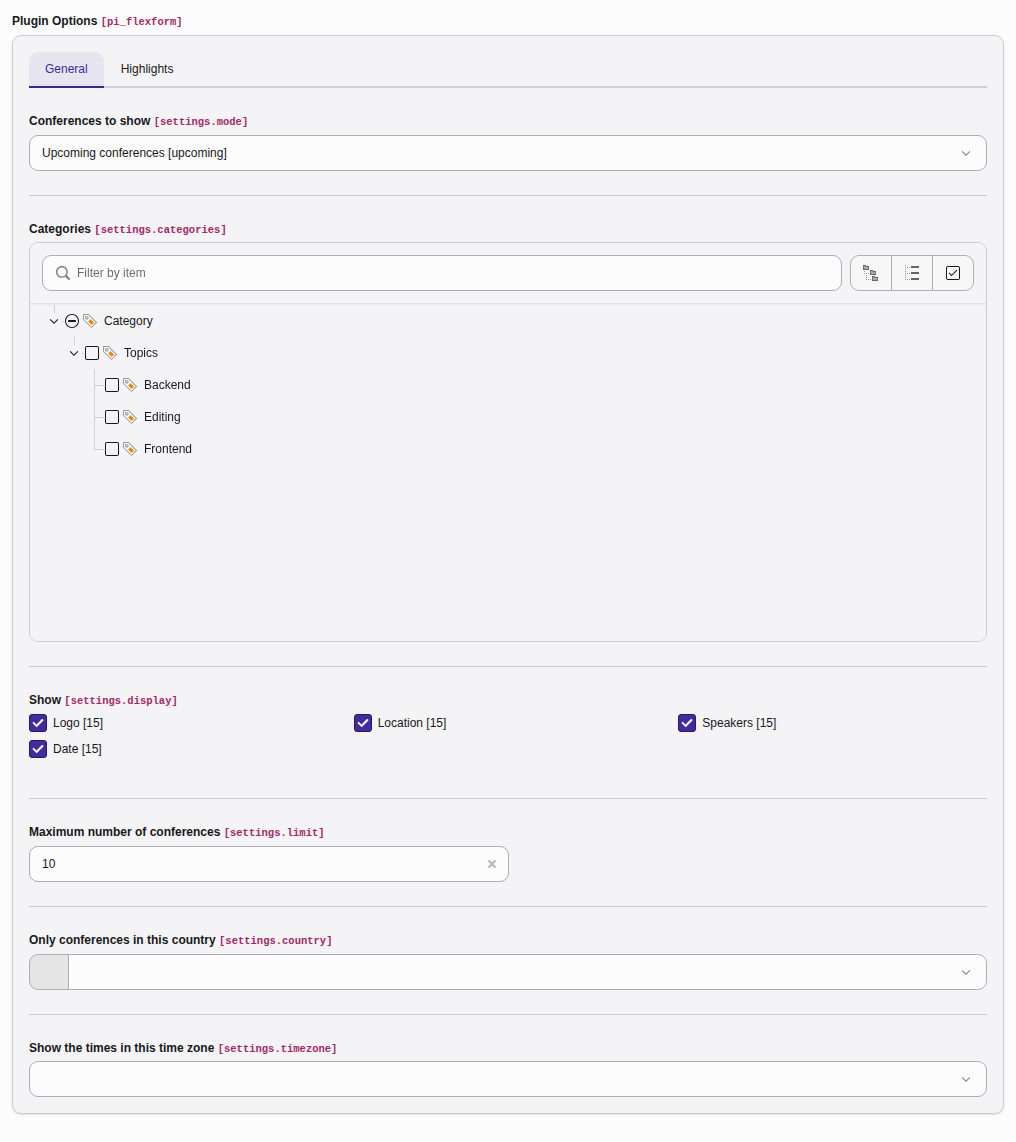
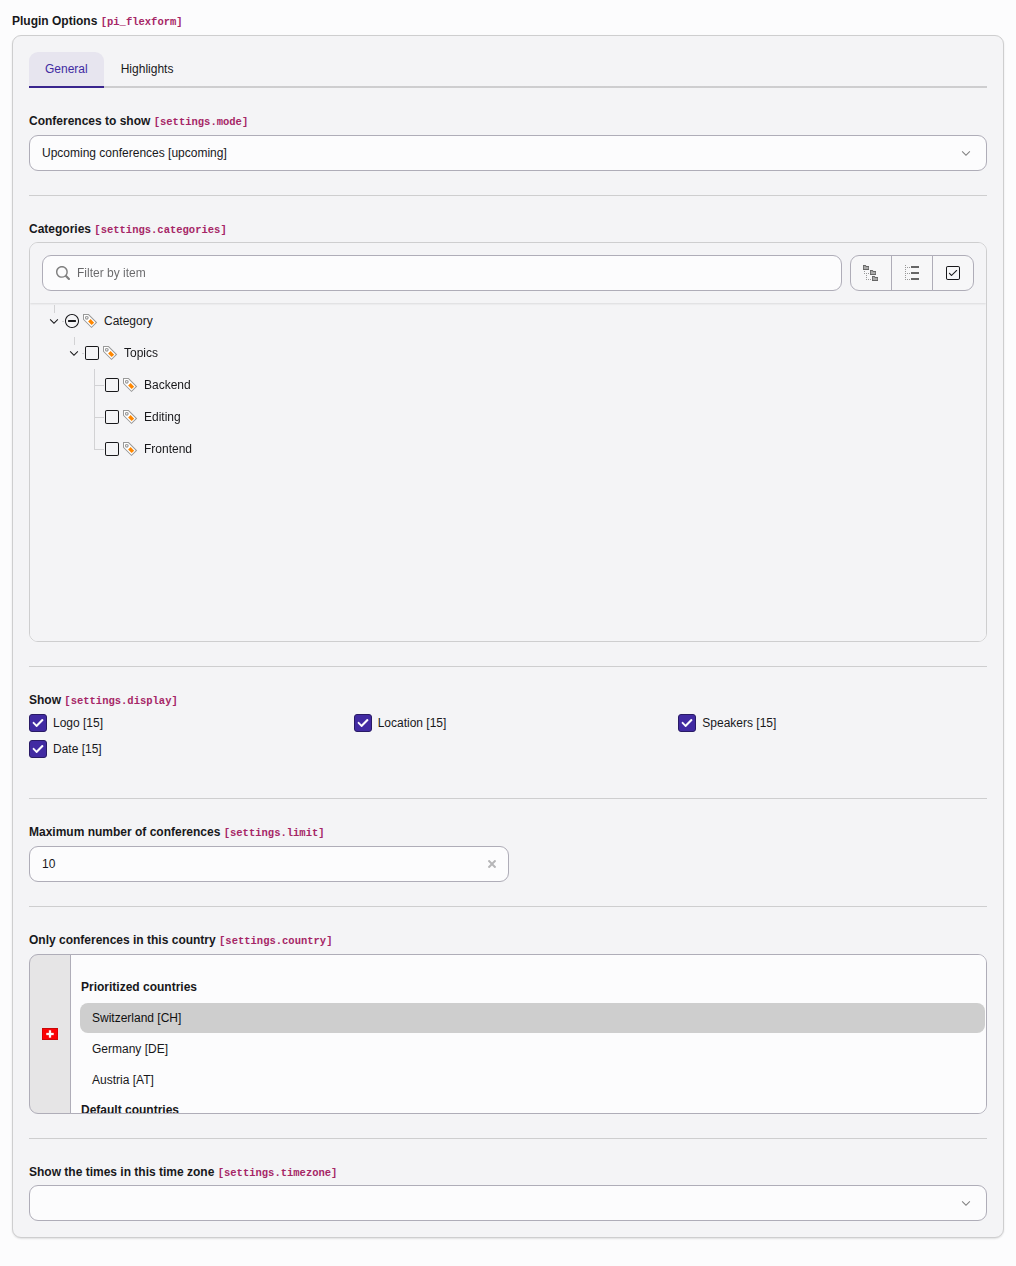
[TASK] Replace the remaining manual screenshots with the conference extension
The manual screenshots of the password generator, the country size, the
default language differences, and the custom form wizard showed records
of the styleguide or of tt_content. Nobody can take them again for a new
TYPO3 version. The conference extension now provides these screenshots:

- A new field wizard above the conference form shows how many records
  refer to the conference. It replaces the wizard snippets of the ctrl
  examples.
- The FlexForm of the plugin shows the country field as a box with a
  size of 4.
- After the translation, a track is added to the default conference, so
  that the translation shows the difference.
- The password screenshots show a generated password and the field after
  saving.

Releases: main, 14.3
Assisted-by: Claude Opus 5.5 <noreply@anthropic.com>

diff --git a/Documentation/CodeSnippets/my_extension/Classes/Form/FieldWizard/ReferencesToThisRecordWizard.php b/Documentation/CodeSnippets/my_extension/Classes/Form/FieldWizard/ReferencesToThisRecordWizard.php
@@ -1,0 +1,40 @@
+<?php
+
+declare(strict_types=1);
+
+namespace MyVendor\MyExtension\Form\FieldWizard;
+
+use TYPO3\CMS\Backend\Form\AbstractNode;
+use TYPO3\CMS\Core\Database\ReferenceIndex;
+use TYPO3\CMS\Core\Localization\LanguageService;
+
+/**
+ * Shows above the form how many records refer to the edited record
+ */
+final class ReferencesToThisRecordWizard extends AbstractNode
+{
+  public function __construct(
+    private readonly ReferenceIndex $referenceIndex,
+  ) {}
+
+  public function render(): array
+  {
+    $result = $this->initializeResultArray();
+    $uid = (int)($this->data['databaseRow']['uid'] ?? 0);
+    if ($uid === 0) {
+      // A new record has no references yet
+      return $result;
+    }
+    $count = $this->referenceIndex->getNumberOfReferencedRecords($this->data['tableName'], $uid);
+    $result['html'] = '<p class="text-body-secondary">' . htmlspecialchars(sprintf(
+      $this->getLanguageService()->sL('my_extension.db:references'),
+      $count,
+    )) . '</p>';
+    return $result;
+  }
+
+  private function getLanguageService(): LanguageService
+  {
+    return $GLOBALS['LANG'];
+  }
+}

diff --git a/Build/Screenshots/create-records.php b/Build/Screenshots/create-records.php
@@ -78,7 +78,10 @@ $data['tt_content'] = [
     'NEWplugin' => [
         'pid' => 1, 'CType' => 'myextension_conferencelist', 'header' => 'Upcoming conferences',
         'pi_flexform' => ['data' => [
-            'sDEF' => ['lDEF' => ['settings.mode' => ['vDEF' => 'upcoming']]],
+            'sDEF' => ['lDEF' => [
+                'settings.mode' => ['vDEF' => 'upcoming'],
+                'settings.country' => ['vDEF' => 'CH'],
+            ]],
             'sHighlights' => ['lDEF' => [
                 'settings.introduction' => ['vDEF' => '<p>Meet the community in Basel and Leipzig.</p>'],
                 'settings.highlights' => ['el' => [
@@ -321,6 +324,12 @@ $process([
         ],
     ],
 ]);
+
+// A change of the default language after the translation, which the
+// translation shows as a difference
+$process(['tx_myextension_conference' => [$conference => [
+    'tracks' => "Backend\nFrontend\nCommunity\nEditing",
+]]]);
 
 // The label of a comment shows its creation date, which must not change
 // with every run

diff --git a/Documentation/CodeSnippets/my_extension/ext_localconf.php b/Documentation/CodeSnippets/my_extension/ext_localconf.php
@@ -6,6 +6,7 @@ use MyVendor\MyExtension\Evaluation\HashtagEvaluation;
 use MyVendor\MyExtension\Form\Element\BadgeNameElement;
 use MyVendor\MyExtension\Form\FieldInformation\InformationText;
 use MyVendor\MyExtension\Form\FieldInformation\TalkOrderInformation;
+use MyVendor\MyExtension\Form\FieldWizard\ReferencesToThisRecordWizard;
 use TYPO3\CMS\Extbase\Utility\ExtensionUtility;
 
 defined('TYPO3') or die();
@@ -42,4 +43,12 @@ $GLOBALS['TYPO3_CONF_VARS']['SYS']['formEngine']['nodeRegistry'][1791310000] = [
   'nodeName' => 'informationText',
   'priority' => 30,
   'class' => InformationText::class,
+];
+
+// The references to a conference above its form, see
+// Configuration/TCA/Overrides/101-tx_myextension_conference-references.php
+$GLOBALS['TYPO3_CONF_VARS']['SYS']['formEngine']['nodeRegistry'][1791320000] = [
+  'nodeName' => 'referencesToThisRecord',
+  'priority' => 30,
+  'class' => ReferencesToThisRecordWizard::class,
 ];

diff --git a/Documentation/CodeSnippets/my_extension/Configuration/TCA/Overrides/101-tx_myextension_conference-references.php b/Documentation/CodeSnippets/my_extension/Configuration/TCA/Overrides/101-tx_myextension_conference-references.php
@@ -1,0 +1,10 @@
+<?php
+
+defined('TYPO3') or die();
+
+// Above the form of a conference, show how many records refer to it
+$GLOBALS['TCA']['tx_myextension_conference']['ctrl']['container']['formWrapContainer']
+  ['fieldWizard']['referencesToThisRecord'] = [
+    // Registered in ext_localconf.php
+    'renderType' => 'referencesToThisRecord',
+  ];

diff --git a/Documentation/Ctrl/Examples.rst b/Documentation/Ctrl/Examples.rst
@@ -95,22 +95,30 @@ This disables the default `localizationStateSelector` fieldWizard of
 Add your own wizard
 -------------------
 
-Register an own node in a :file:`ext_localconf.php`:
+The form of a conference shows how many records refer to the conference.
+The `FormWrapContainer` renders this wizard above the fields:
 
-..  literalinclude:: _CodeSnippets/_WizardRegistration/_ext_localconf.php
+..  figure:: /Images/Conference/FieldWizardReferences.png
+    :alt: The number of records that refer to a conference above its form
+    :class: with-shadow
+
+    The number of records that refer to a conference above its form
+
+Register the node in the file :file:`ext_localconf.php`:
+
+..  literalinclude:: /CodeSnippets/my_extension/ext_localconf.php
     :caption: EXT:my_extension/ext_localconf.php
+    :emphasize-lines: 9,50-54
 
-Register the new node as `fieldWizard` of `tt_content` table in an
-:file:`Configuration/TCA/Overrides/tt_content.php` file:
+Add the node as a `fieldWizard` of the `formWrapContainer`:
 
-..  literalinclude:: _CodeSnippets/_WizardRegistration/_tca_overrides.php
-    :caption: EXT:my_extension/Configuration/TCA/Overrides/tt_content.php
+..  literalinclude:: /CodeSnippets/my_extension/Configuration/TCA/Overrides/101-tx_myextension_conference-references.php
+    :caption: EXT:my_extension/Configuration/TCA/Overrides/101-tx_myextension_conference-references.php
 
-In PHP, the node has to implement an interface, but can return any additional
-HTML. The `FormWrapContainer` renders it above the fields when editing a
-record:
+The node extends `AbstractNode` and returns its HTML in the result array:
 
-..  include:: /Images/ManualScreenshots/OuterFieldWizard.rst.txt
+..  literalinclude:: /CodeSnippets/my_extension/Classes/Form/FieldWizard/ReferencesToThisRecordWizard.php
+    :caption: EXT:my_extension/Classes/Form/FieldWizard/ReferencesToThisRecordWizard.php
 
 ..  _tca-example-ctrl-container-inline:
 

diff --git a/Documentation/ColumnsConfig/Type/Flex/Examples.rst b/Documentation/ColumnsConfig/Type/Flex/Examples.rst
@@ -29,7 +29,7 @@ Notice the :xml:`<settings.mode>` tag in the DataStructure:
 
 ..  literalinclude:: /CodeSnippets/my_extension/Configuration/FlexForms/ConferenceList.xml
     :caption: EXT:my_extension/Configuration/FlexForms/ConferenceList.xml
-    :visible-lines: 1-29, 112-114, 156-157
+    :visible-lines: 1-29, 113-115, 157-158
     :emphasize-lines: 8
 
 It's clear that the contents of :xml:`<settings.mode>` is a direct reflection of
@@ -73,8 +73,8 @@ description:
 
 ..  literalinclude:: /CodeSnippets/my_extension/Configuration/FlexForms/ConferenceList.xml
     :caption: EXT:my_extension/Configuration/FlexForms/ConferenceList.xml
-    :visible-lines: 1-7, 112-120, 154-157
-    :emphasize-lines: 3, 115, 117-118
+    :visible-lines: 1-7, 113-121, 155-158
+    :emphasize-lines: 3, 116, 118-119
 
 Notice how the data of the two sheets are separated.
 
@@ -95,8 +95,8 @@ highlights, each with a title and a link:
 
 ..  literalinclude:: /CodeSnippets/my_extension/Configuration/FlexForms/ConferenceList.xml
     :caption: EXT:my_extension/Configuration/FlexForms/ConferenceList.xml
-    :visible-lines: 128-152
-    :emphasize-lines: 131, 133
+    :visible-lines: 129-153
+    :emphasize-lines: 132, 134
 
 ..  _columns-flex-example-rte:
 
@@ -108,5 +108,5 @@ tag of the field:
 
 ..  literalinclude:: /CodeSnippets/my_extension/Configuration/FlexForms/ConferenceList.xml
     :caption: EXT:my_extension/Configuration/FlexForms/ConferenceList.xml
-    :visible-lines: 121-127
-    :emphasize-lines: 125
+    :visible-lines: 122-128
+    :emphasize-lines: 126

diff --git a/Documentation/ColumnsConfig/Type/Country/Index.rst b/Documentation/ColumnsConfig/Type/Country/Index.rst
@@ -49,7 +49,7 @@ speaker. The localized name is displayed to the backend users.
 
         ..  literalinclude:: /CodeSnippets/my_extension/Configuration/FlexForms/ConferenceList.xml
             :caption: EXT:my_extension/Configuration/FlexForms/ConferenceList.xml
-            :visible-lines: 1-7, 79-90, 112-114, 156-157
+            :visible-lines: 1-7, 79-91, 113-115, 157-158
             :emphasize-lines: 82-83
 
 ..  _columns-country-example-extended:
@@ -79,8 +79,8 @@ and Switzerland, Germany, and Austria are listed first:
 
         ..  literalinclude:: /CodeSnippets/my_extension/Configuration/FlexForms/ConferenceList.xml
             :caption: EXT:my_extension/Configuration/FlexForms/ConferenceList.xml
-            :visible-lines: 1-7, 79-90, 112-114, 156-157
-            :emphasize-lines: 84-88
+            :visible-lines: 1-7, 79-91, 113-115, 157-158
+            :emphasize-lines: 85-89
 
 Additional countries can be added via the
 `BeforeCountriesEvaluatedEvent <https://docs.typo3.org/permalink/t3coreapi:beforecountriesevaluatedevent>`_.

diff --git a/Documentation/ColumnsConfig/CommonProperties/FieldWizard/DefaultLanguageDifferences.rst b/Documentation/ColumnsConfig/CommonProperties/FieldWizard/DefaultLanguageDifferences.rst
@@ -23,4 +23,8 @@ defaultLanguageDifferences
     This wizard is important for editors who maintain translated records: They can see what has been
     changed in their localization parent between the last save operation of the overlay.
 
-    ..  include:: /Images/ManualScreenshots/DefaultLanguageDifferences.rst.txt
+    ..  figure:: /Images/Conference/FieldWizardDefaultLanguageDifferences.png
+        :alt: The tracks of a translated conference with the track that was added to the default language
+        :class: with-shadow
+
+        The track "Community" was added to the default language after the translation

diff --git a/Documentation/ColumnsConfig/Type/Category/Examples.rst b/Documentation/ColumnsConfig/Type/Category/Examples.rst
@@ -61,5 +61,5 @@ lists only the conferences of the selected categories:
 
 ..  literalinclude:: /CodeSnippets/my_extension/Configuration/FlexForms/ConferenceList.xml
     :caption: EXT:my_extension/Configuration/FlexForms/ConferenceList.xml
-    :visible-lines: 1-7, 38-43, 112-114, 156-157
+    :visible-lines: 1-7, 38-43, 113-115, 157-158
     :emphasize-lines: 41

diff --git a/Documentation/ColumnsConfig/CommonProperties/ItemsProcessors.rst b/Documentation/ColumnsConfig/CommonProperties/ItemsProcessors.rst
@@ -88,5 +88,5 @@ Registration of processors is also possible inside FlexForms:
 
 ..  literalinclude:: /CodeSnippets/my_extension/Configuration/FlexForms/ConferenceList.xml
     :caption: EXT:my_extension/Configuration/FlexForms/ConferenceList.xml
-    :visible-lines: 91-111
-    :emphasize-lines: 102-109
+    :visible-lines: 92-112
+    :emphasize-lines: 103-110

diff --git a/Documentation/ColumnsConfig/Type/Input/Index.rst b/Documentation/ColumnsConfig/Type/Input/Index.rst
@@ -155,7 +155,7 @@ Register the class in :file:`ext_localconf.php`:
 
 ..  literalinclude:: /CodeSnippets/my_extension/ext_localconf.php
     :caption: EXT:my_extension/ext_localconf.php
-    :emphasize-lines: 20
+    :emphasize-lines: 21
 
 `returnFieldJS()` names a JavaScript module, which removes the `#` already
 while the editor types:

diff --git a/Documentation/ColumnsConfig/Type/Inline/Examples.rst b/Documentation/ColumnsConfig/Type/Inline/Examples.rst
@@ -154,7 +154,7 @@ type inline** - as it is a container.
 
     ..  literalinclude:: /CodeSnippets/my_extension/ext_localconf.php
         :caption: EXT:my_extension/ext_localconf.php
-        :emphasize-lines: 25-29
+        :emphasize-lines: 26-30
 
 #.  Add the fieldInformation to the container for containerRenderType inline
 
